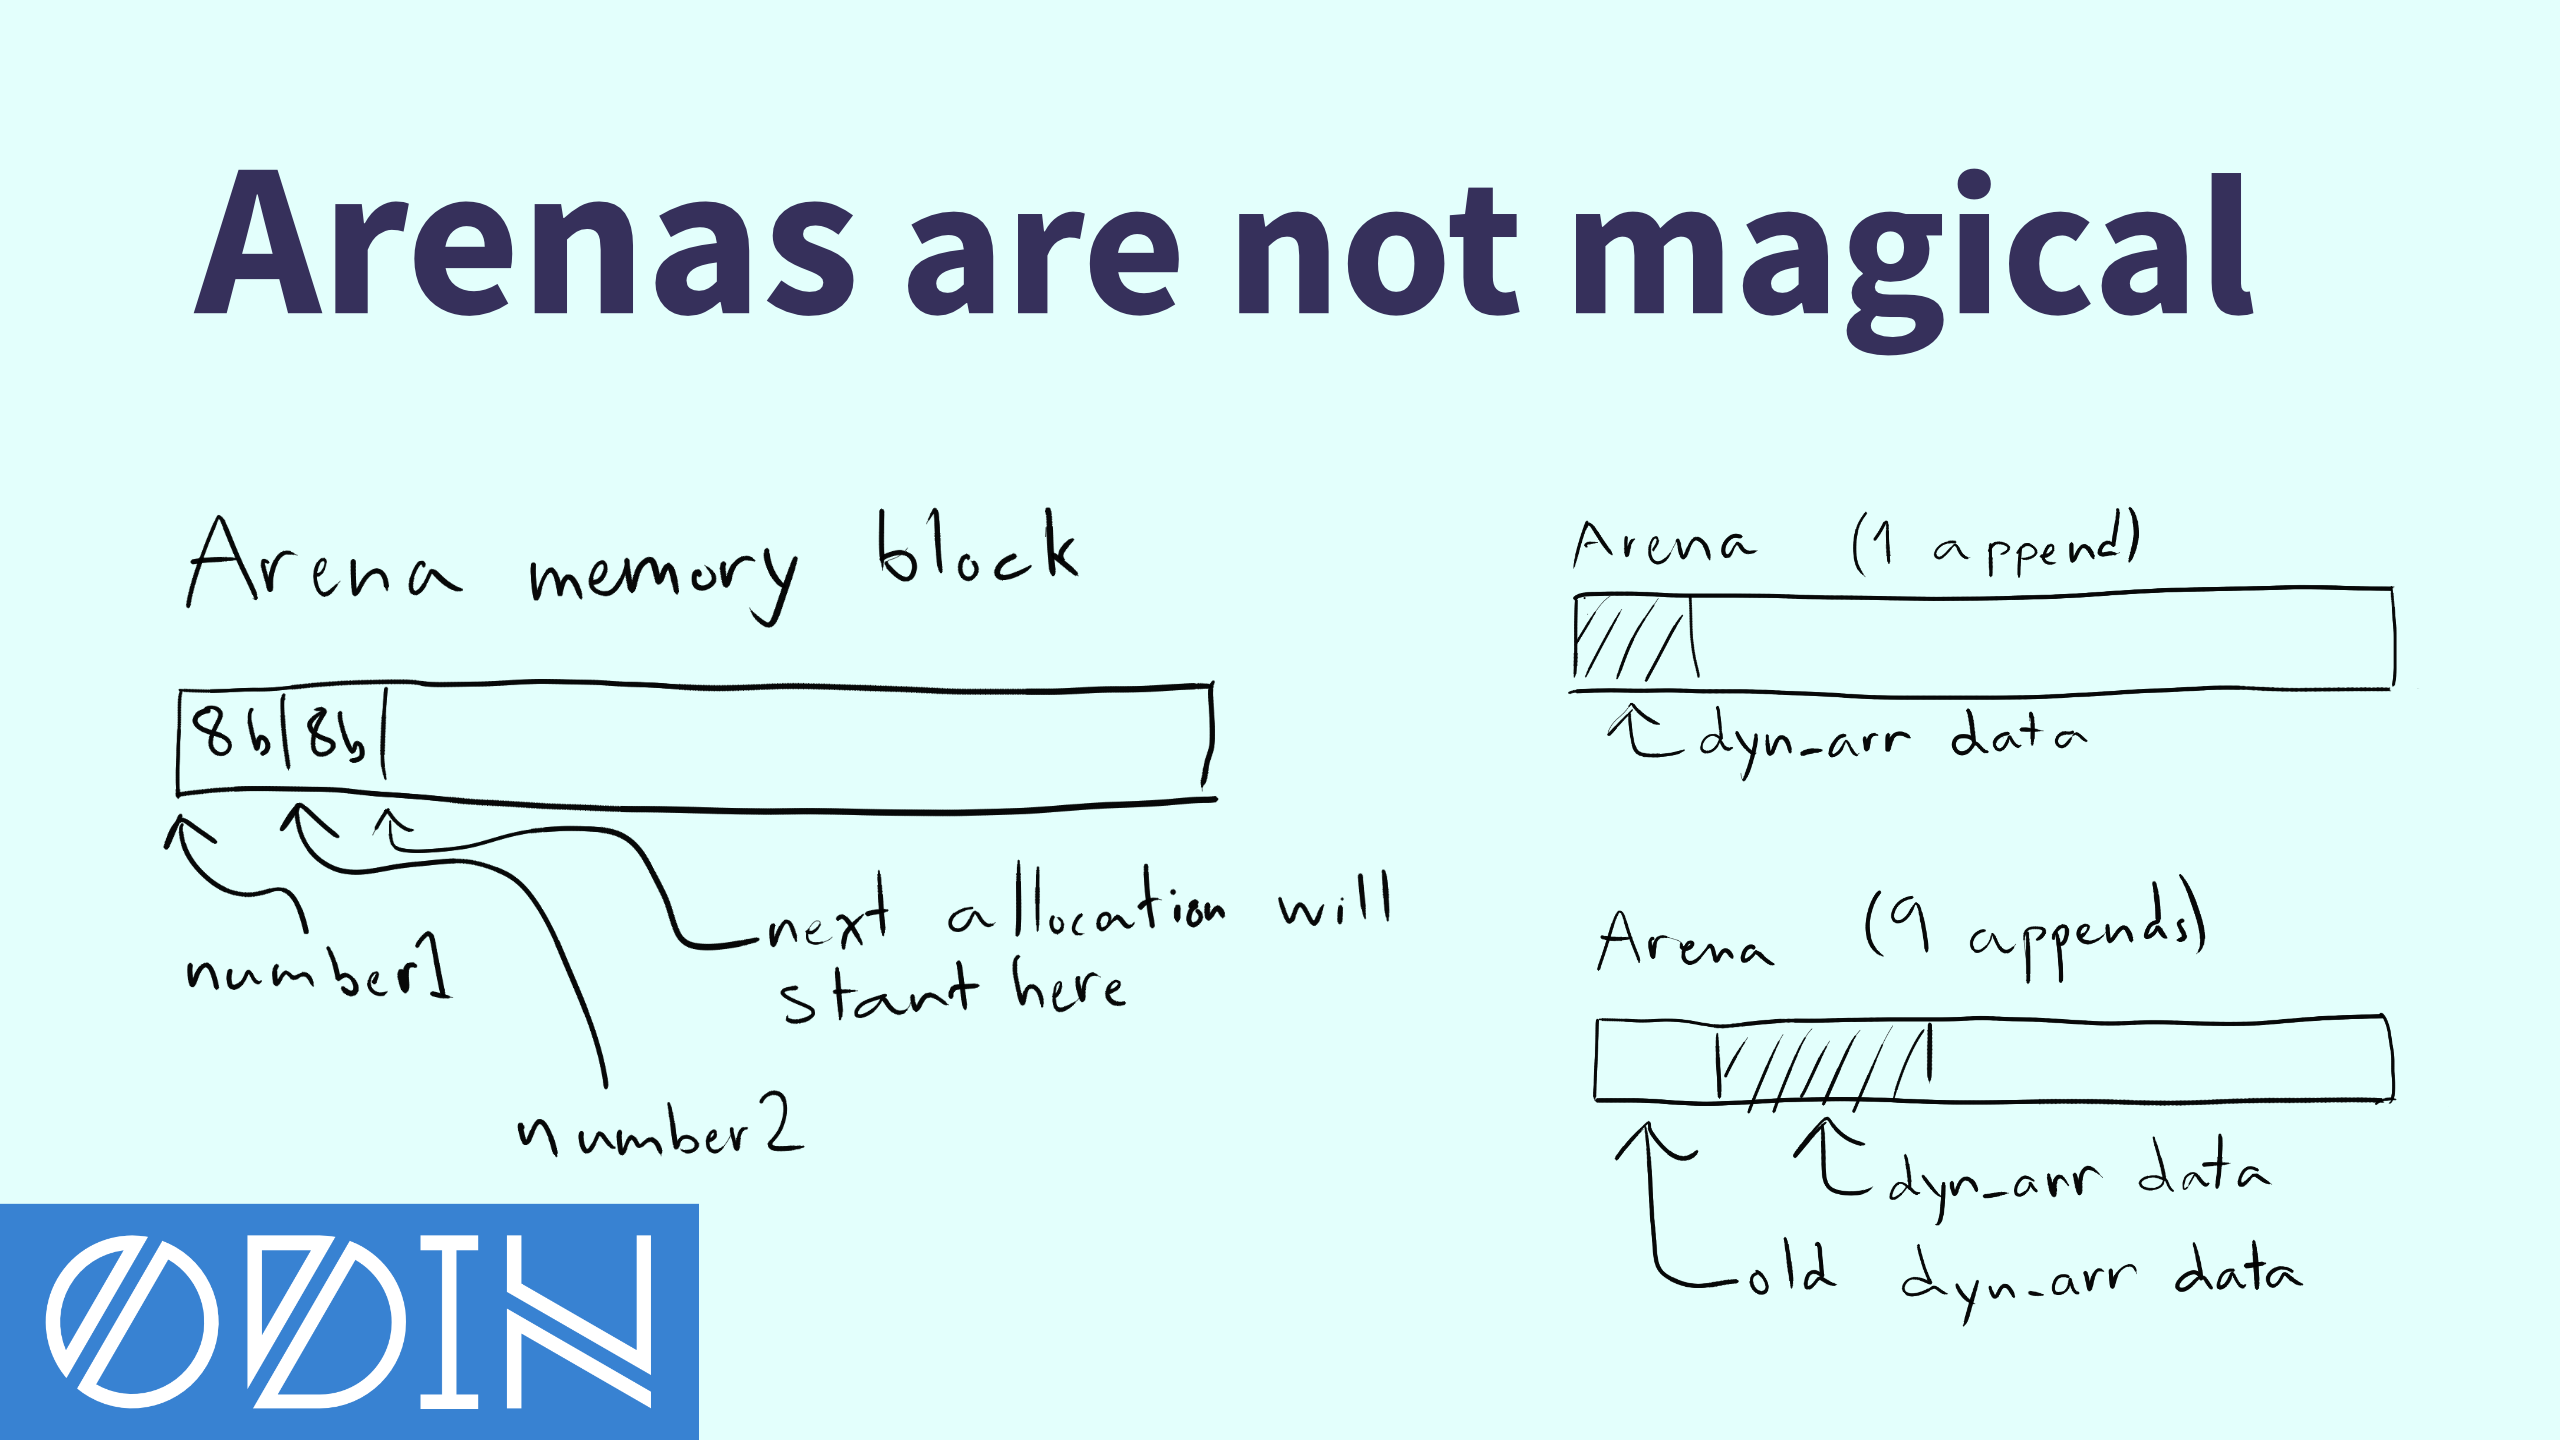
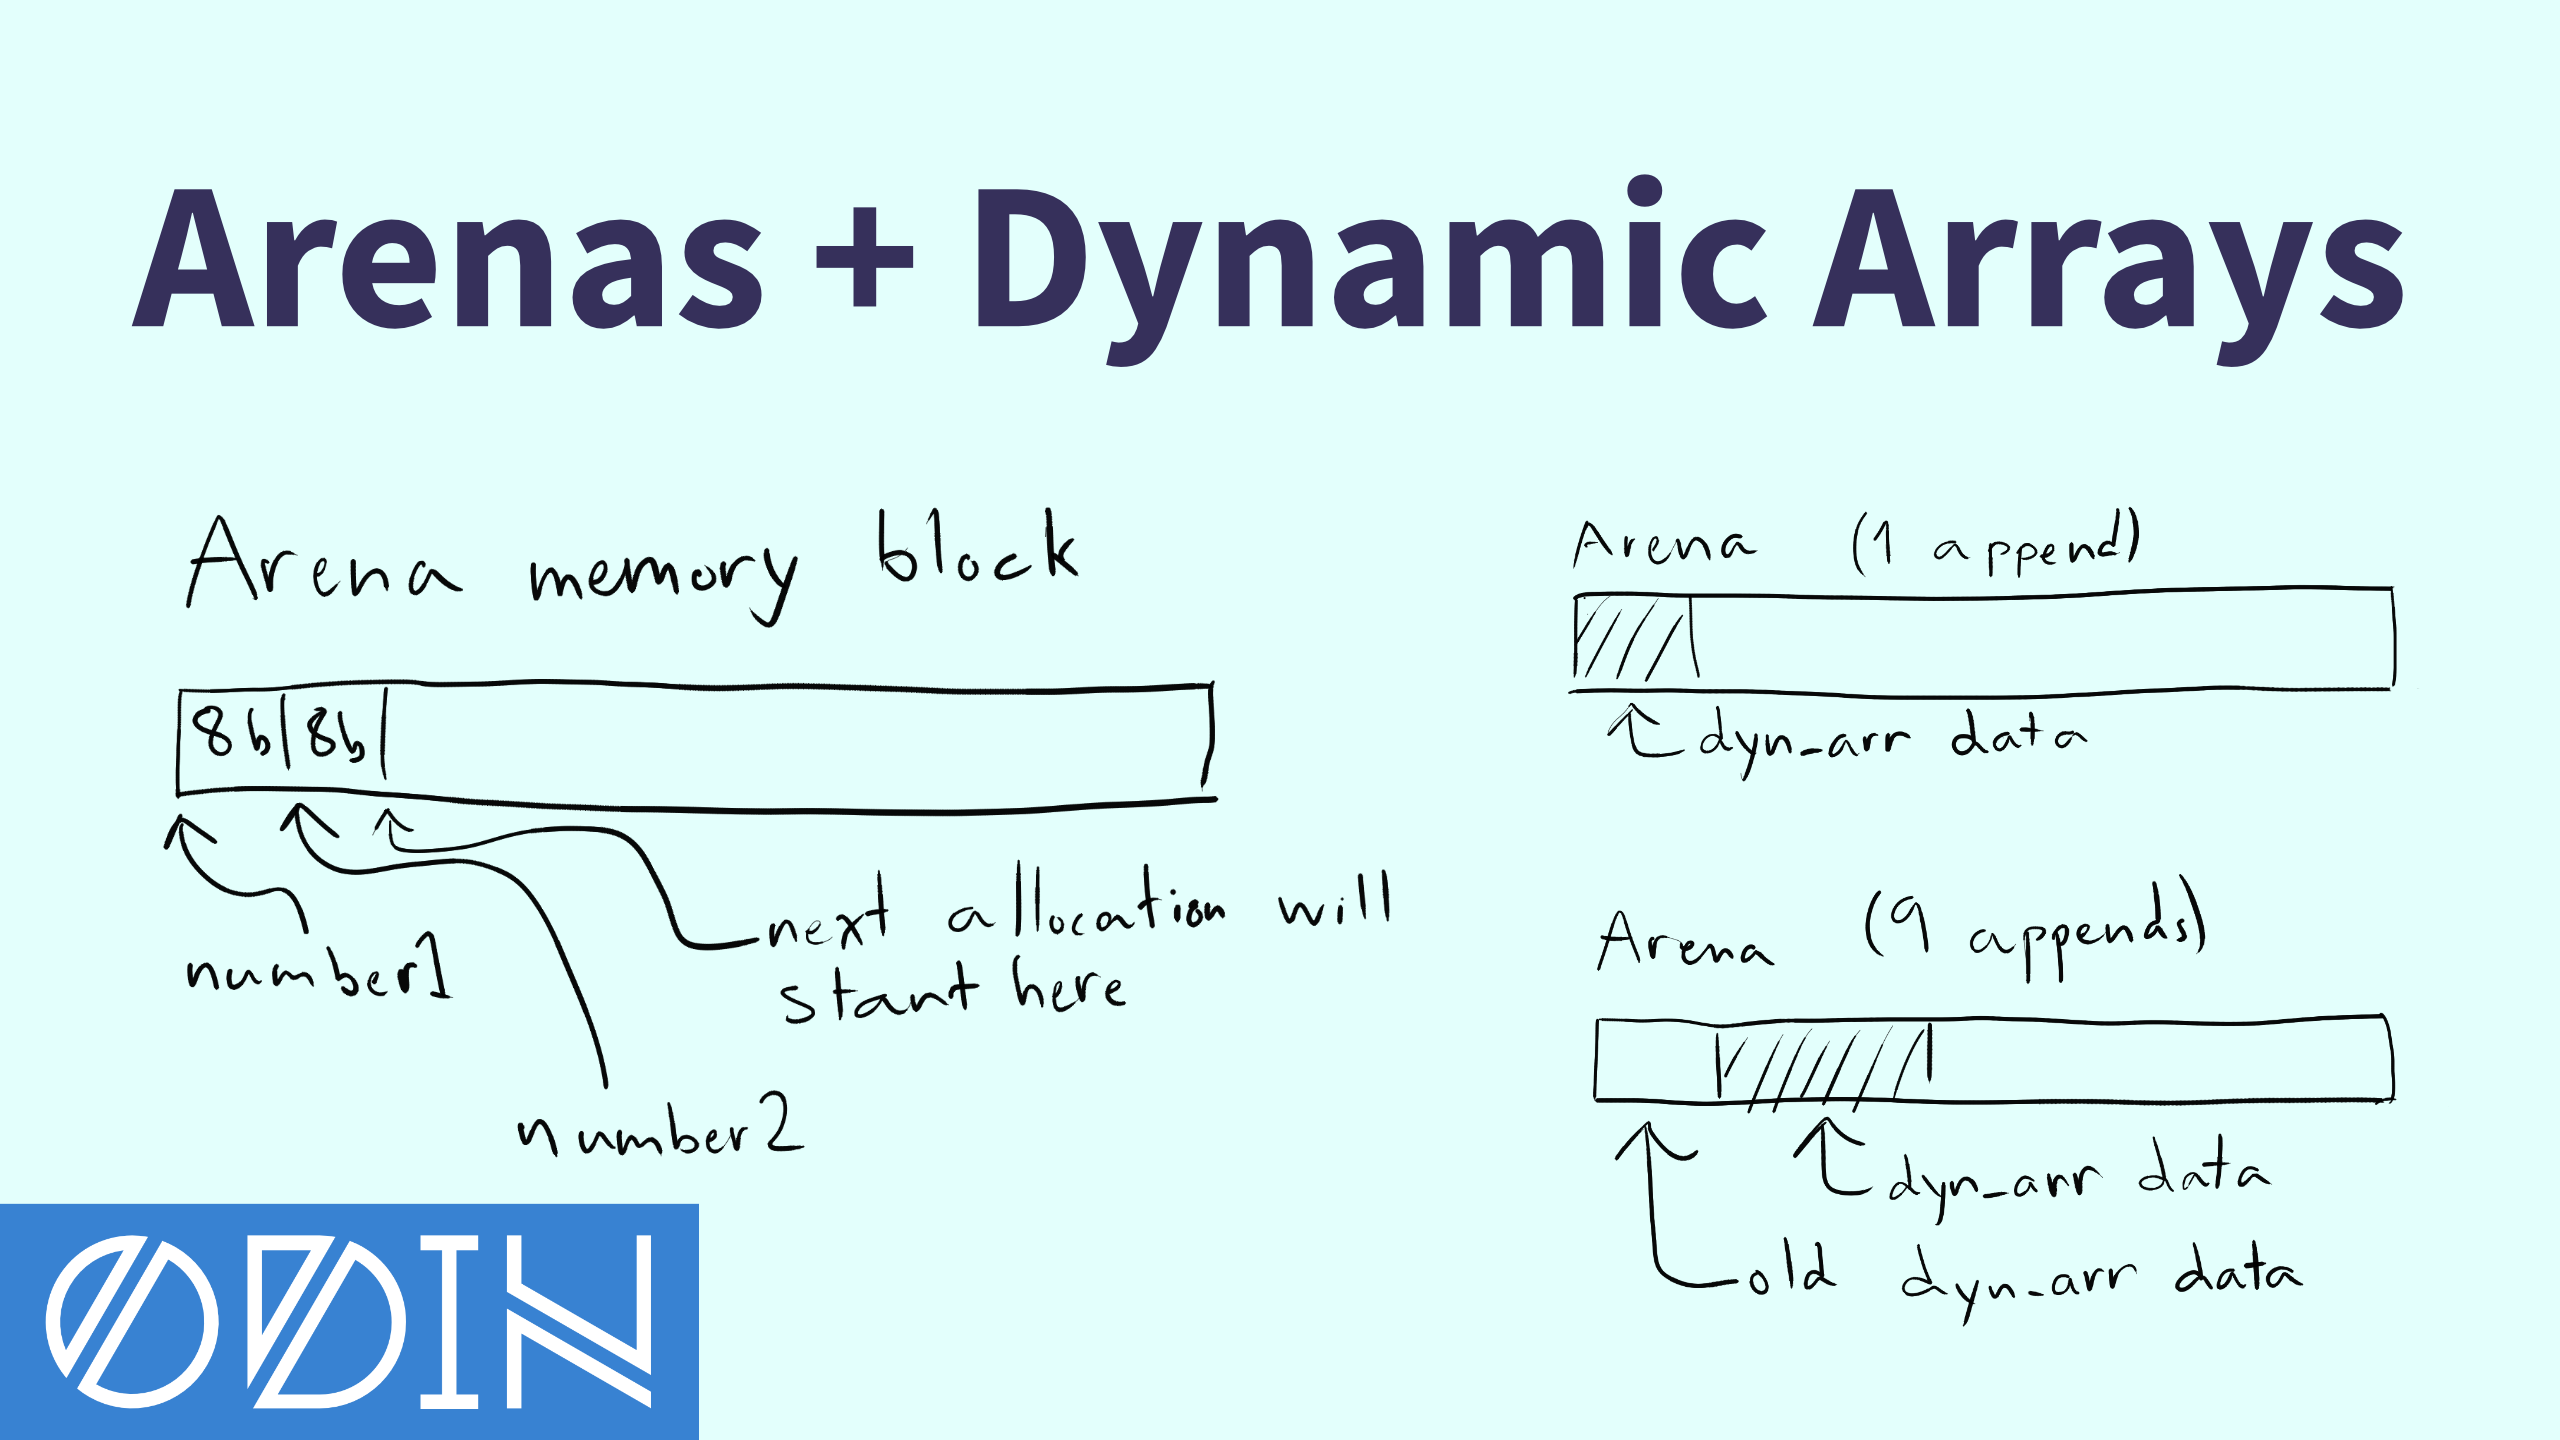
Cover picture for arena post

Changed region(s): [[0.0312, 0.0938, 0.9375, 0.25]]

diff --git a/content/posts/dynamic-arrays-and-arenas.md b/content/posts/dynamic-arrays-and-arenas.md
@@ -1,5 +1,5 @@
 ---
-title: "Dynamic Arrays in Arenas"
+title: "Mistakes and cool things to do with arena allocators"
 date: 2025-04-04T12:29:00+02:00
 
 cover:
